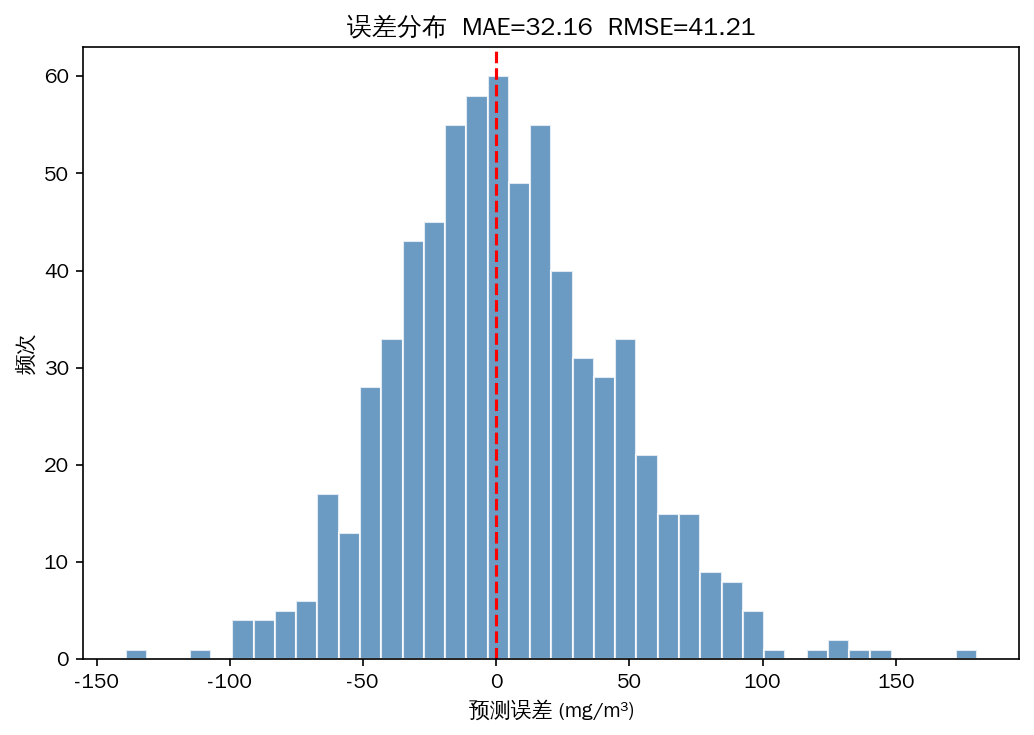
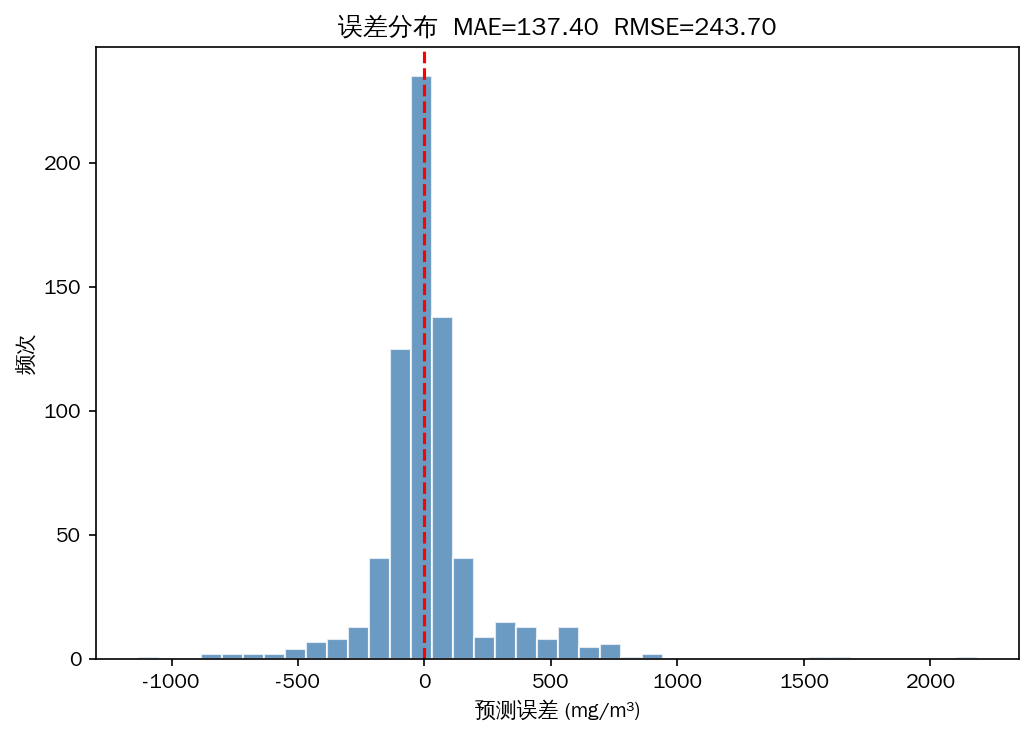
Fix data leakage in CO autoregressive features + run with real data
co_ma5 and co_diff1 previously included CO(t) (the prediction target),
causing inflated test R² of 0.9887. Fixed by shifting before rolling:
  co_ma5   = CO.shift(1).rolling(5).mean()  # mean of CO[t-5..t-1]
  co_diff1 = CO.shift(1).diff(1)            # CO(t-1) - CO(t-2)

Results with real data (附件1_原始数据.xlsx):
  Test R²=0.7032, MAE=137.40, RMSE=243.70 mg/m³
  5-fold CV R²=0.6663 ± 0.1562

https://claude.ai/code/session_01LcBaKyPS88nU1pFVtHDwPW

diff --git a/problem2_v2.py b/problem2_v2.py
@@ -207,12 +207,12 @@ df_al['p_back'] = df_al[back_neg].mean(axis=1) if back_neg else 0.0
 df_al['t_back'] = df_al[back_tmp].mean(axis=1) if back_tmp else 0.0
 stat_cols = ['p_mean', 'p_mid', 'p_back', 't_back']
 
-# (4) CO自回归特征：5个
-df_al['co_lag1']  = df_al[CO_COL].shift(1)
-df_al['co_lag2']  = df_al[CO_COL].shift(2)
-df_al['co_lag5']  = df_al[CO_COL].shift(5)
-df_al['co_ma5']   = df_al[CO_COL].rolling(5).mean()
-df_al['co_diff1'] = df_al[CO_COL].diff(1)
+# (4) CO自回归特征：5个（全部基于历史值，不含当前CO，避免数据泄露）
+df_al['co_lag1']  = df_al[CO_COL].shift(1)           # CO(t-1)
+df_al['co_lag2']  = df_al[CO_COL].shift(2)           # CO(t-2)
+df_al['co_lag5']  = df_al[CO_COL].shift(5)           # CO(t-5)
+df_al['co_ma5']   = df_al[CO_COL].shift(1).rolling(5).mean()  # mean(CO[t-5..t-1])，不含CO(t)
+df_al['co_diff1'] = df_al[CO_COL].shift(1).diff(1)           # CO(t-1)-CO(t-2)，不含CO(t)
 co_ar_cols = ['co_lag1', 'co_lag2', 'co_lag5', 'co_ma5', 'co_diff1']
 
 # 去掉rolling/shift引入的NaN
